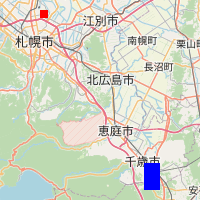
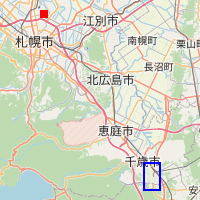
Add option to draw open rectangles with specified stroke width.

Changed region(s): [[0.69, 0.81, 0.81, 0.96], [0.0, 0.9, 0.03, 0.96]]

diff --git a/src/tools/rect.rs b/src/tools/rect.rs
@@ -4,7 +4,7 @@ use crate::{
     tools::{Color, Tool},
     Error, Result,
 };
-use tiny_skia::{self, PixmapMut, Transform};
+use tiny_skia::{self, PathBuilder, PixmapMut, Stroke, Transform};
 
 /// Rect tool.
 /// Use [RectBuilder][RectBuilder] as an entrypoint.
@@ -29,6 +29,7 @@ pub struct Rect {
     east_lon_coordinate: f64,
     west_lon_coordinate: f64,
     color: Color,
+    stroke_width: Option<f32>,
 }
 
 /// Builder for [Rect][Rect].
@@ -39,6 +40,7 @@ pub struct RectBuilder {
     east_lon_coordinate: Option<f64>,
     west_lon_coordinate: Option<f64>,
     color: Color,
+    stroke_width: Option<f32>,
 }
 
 impl RectBuilder {
@@ -82,6 +84,20 @@ impl RectBuilder {
         self
     }
 
+    /// Draw a filled rectangle (the default).
+    pub fn filled(mut self) -> Self {
+        self.stroke_width = None;
+        self
+    }
+
+    /// Draw an open rectangle.
+    /// Stroke `width` is in pixels, and must be >= 0.0.
+    /// When set to 0, a hairline stroking will be used.
+    pub fn stroke_width(mut self, width: f32) -> Self {
+        self.stroke_width = Some(width);
+        self
+    }
+
     /// Build the tool, consuming the builder.
     /// Returns an error if the builder is missing required fields.
     pub fn build(self) -> Result<Rect> {
@@ -99,6 +115,7 @@ impl RectBuilder {
                 .west_lon_coordinate
                 .ok_or(Error::BuildError("West longitude coordinate not supplied."))?,
             color: self.color,
+            stroke_width: self.stroke_width,
         })
     }
 }
@@ -121,7 +138,20 @@ impl Tool for Rect {
 
         let rect = tiny_skia::Rect::from_ltrb(left as f32, top as f32, right as f32, bottom as f32);
         if let Some(rect) = rect {
-            pixmap.fill_rect(rect, &self.color.0, Transform::default(), None);
+            if let Some(width) = self.stroke_width {
+                pixmap.stroke_path(
+                    &PathBuilder::from_rect(rect),
+                    &self.color.0,
+                    &Stroke {
+                        width,
+                        ..Default::default()
+                    },
+                    Transform::default(),
+                    None,
+                );
+            } else {
+                pixmap.fill_rect(rect, &self.color.0, Transform::default(), None);
+            }
         }
     }
 }

diff --git a/examples/rect.rs b/examples/rect.rs
@@ -20,6 +20,7 @@ fn main() -> Result<(), Error> {
         .east_lon_coordinate(141.698469171195)
         .west_lon_coordinate(141.65625418708007)
         .color(Color::new(true, 0, 0, 255, 255))
+        .stroke_width(2.0)
         .build()?;
 
     map.add_tool(rect1);
